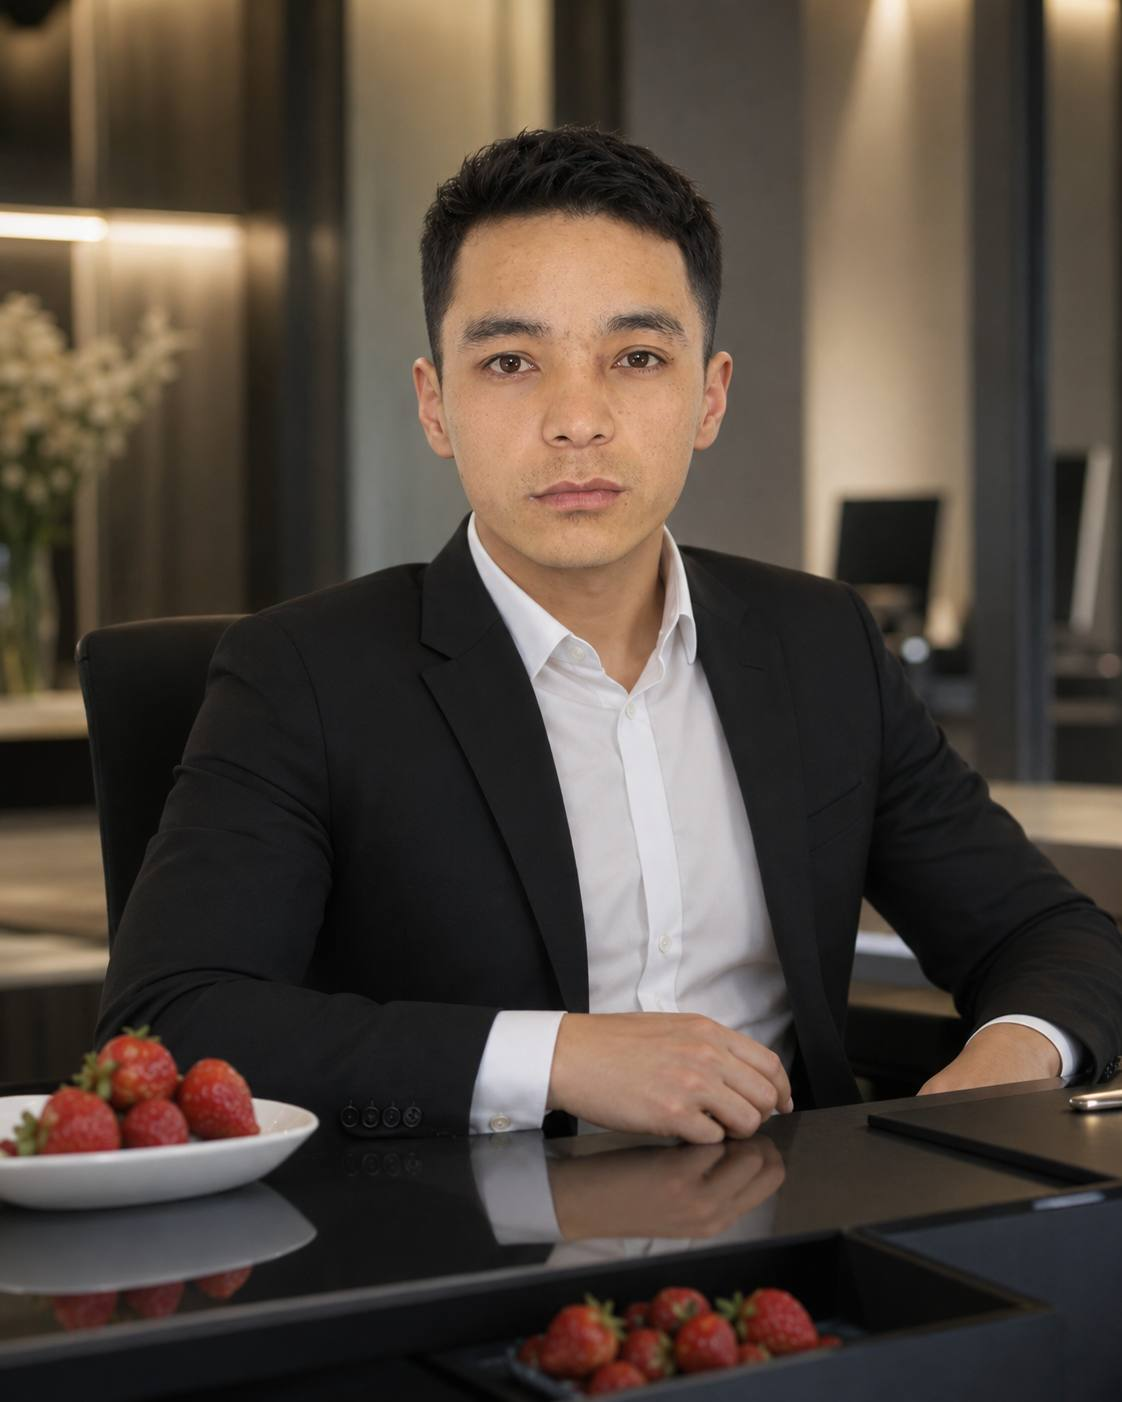
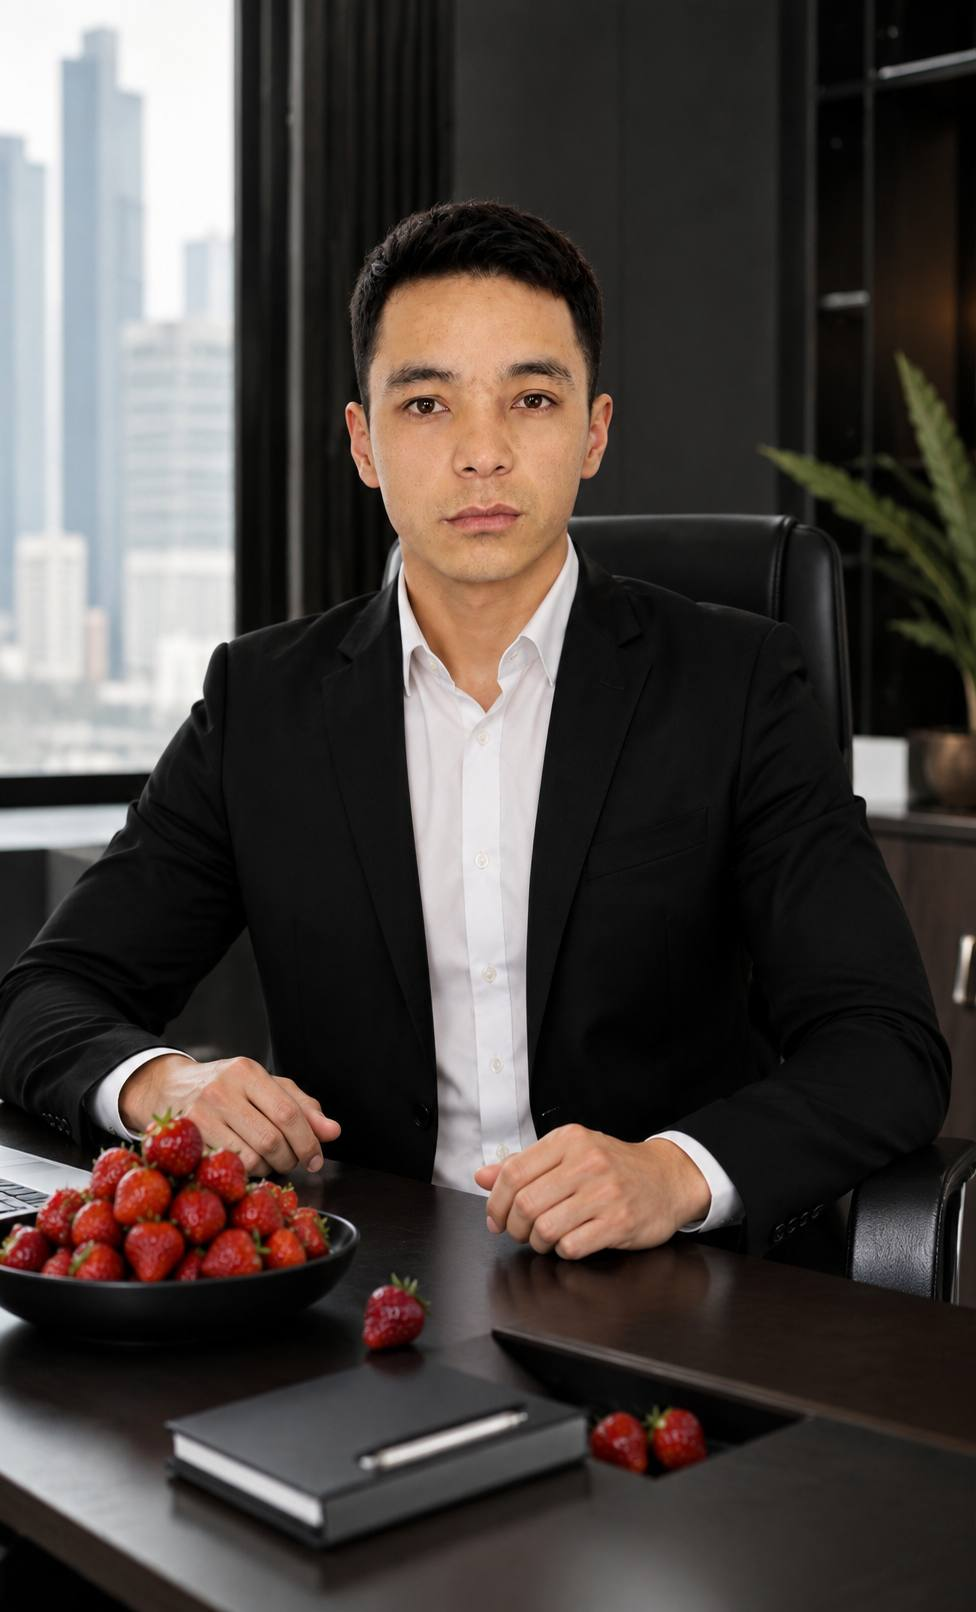
All media links updated to Cloudinary

diff --git a/shop/templates/shop/about.html b/shop/templates/shop/about.html
@@ -519,12 +519,14 @@
         </div>
 
         <!-- 2-Автордун сүрөттөрү (Шумкарбек) -->
-
-        <div class="swiper author-swiper" id="swiper-shumkar">
+        <div class="swiper author-swiper" id="swiper-shumkar" style="display: none;">
             <div class="swiper-wrapper">
-                <div class="swiper-slide">
-    <img src="https://res.cloudinary.com/dffggv57z/image/upload/v1778873879/shumkar_o7bufn.jpg" alt="Шумкар" style="width: 100%; max-width: 300px; border-radius: 8px;">
-</div>
+                <div class="swiper-slide"><img src="https://res.cloudinary.com/dffggv57z/image/upload/v1778877083/shumkar_nd6koe.jpg"
+         alt="Шумкар"
+         style="width: 100%; max-width: 300px; border-radius: 8px;">
+                </div>
+            </div>
+        </div>
 
         <!-- Социалдык тармактардын шилтемелери (ID'лер кошулду) -->
         <div class="glass-social-bottom" id="dynamicSocials">
@@ -859,4 +861,4 @@
     });
 });
 </script>
-  </div> </div> {% endblock %}
+{% endblock %}